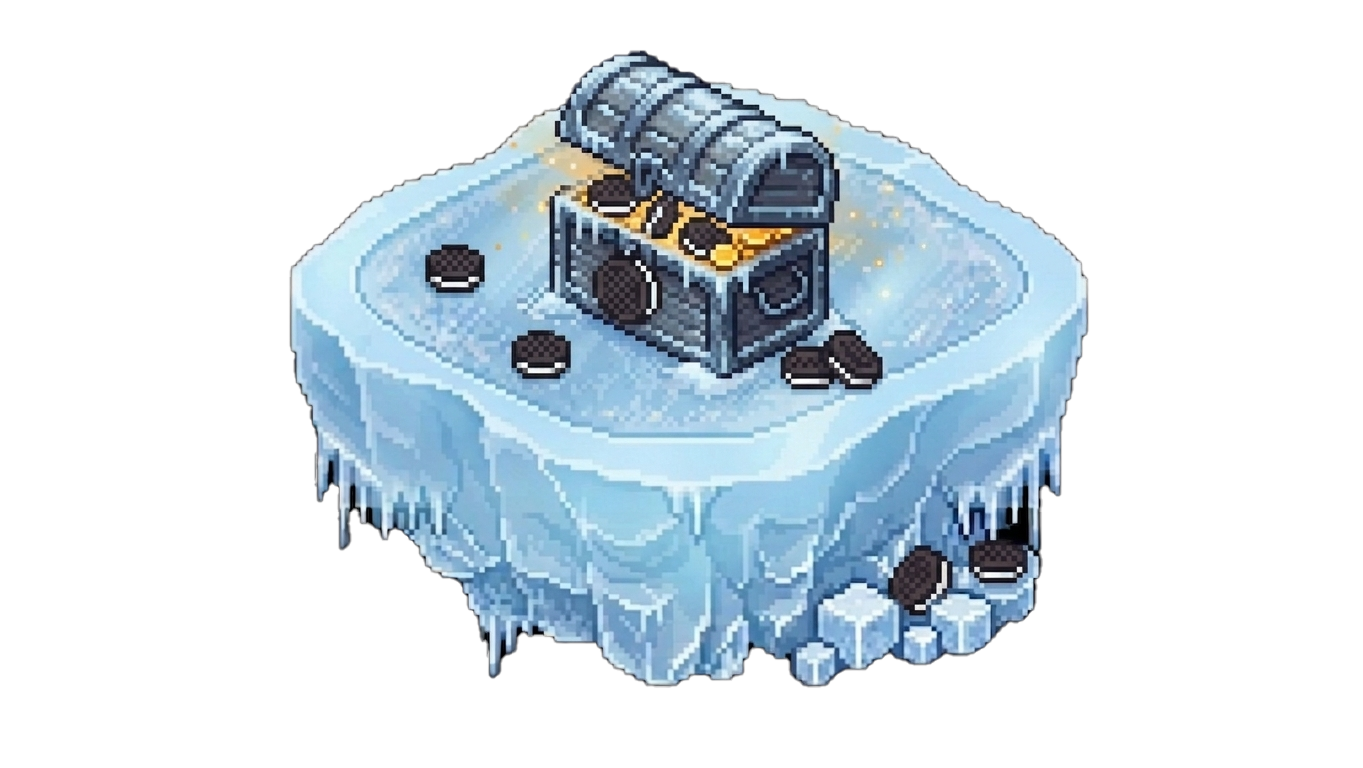
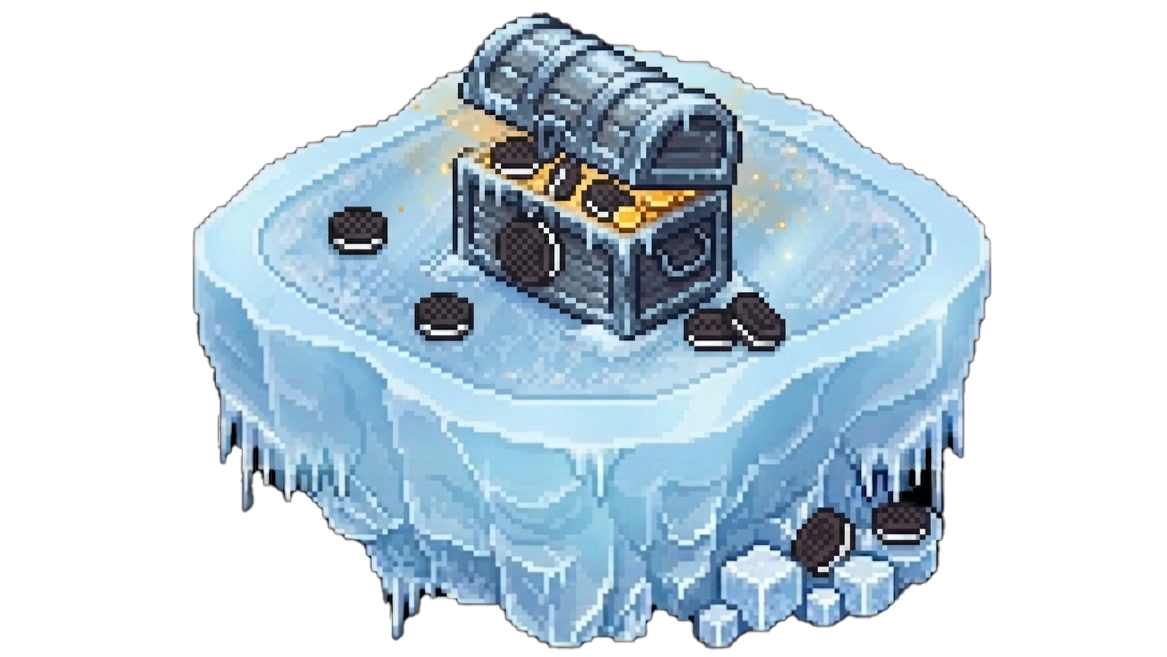
estetica tablero

diff --git a/Joc_Pingu_Oreo/src/RESOURCES/PantallaJuego.css b/Joc_Pingu_Oreo/src/RESOURCES/PantallaJuego.css
@@ -1,5 +1,8 @@
 .root {
     -fx-font-family: "System";
+    -fx-background-image: url('../imagenes/Tablero.png');
+    -fx-background-size: 100% 100%;
+    -fx-background-repeat: no-repeat;
 }
 
 /* MENU */

diff --git a/Joc_Pingu_Oreo/src/VISTA/PantallaJuego.java b/Joc_Pingu_Oreo/src/VISTA/PantallaJuego.java
@@ -259,8 +259,14 @@ public class PantallaJuego {
 			if (img != null) {
 				ImageView imgView = new ImageView(img);
 				imgView.setPreserveRatio(true);
-				imgView.fitWidthProperty().bind(tablero.widthProperty().divide(COLUMNS).multiply(0.85));
-				imgView.fitHeightProperty().bind(tablero.heightProperty().divide(ROWS).multiply(0.85));
+				
+				// Permitir que el contenedor se encoja rompiendo la dependencia del tamaño de la imagen original
+				celdaContainer.setMinSize(0, 0);
+				
+				// Aumentamos el tamaño al 95% para que las plataformas estén súper juntas ahora que el grid ha encogido
+				imgView.fitWidthProperty().bind(celdaContainer.widthProperty().multiply(0.95));
+				imgView.fitHeightProperty().bind(celdaContainer.heightProperty().multiply(0.95));
+				
 				celdaContainer.getChildren().add(imgView);
 			}
 
